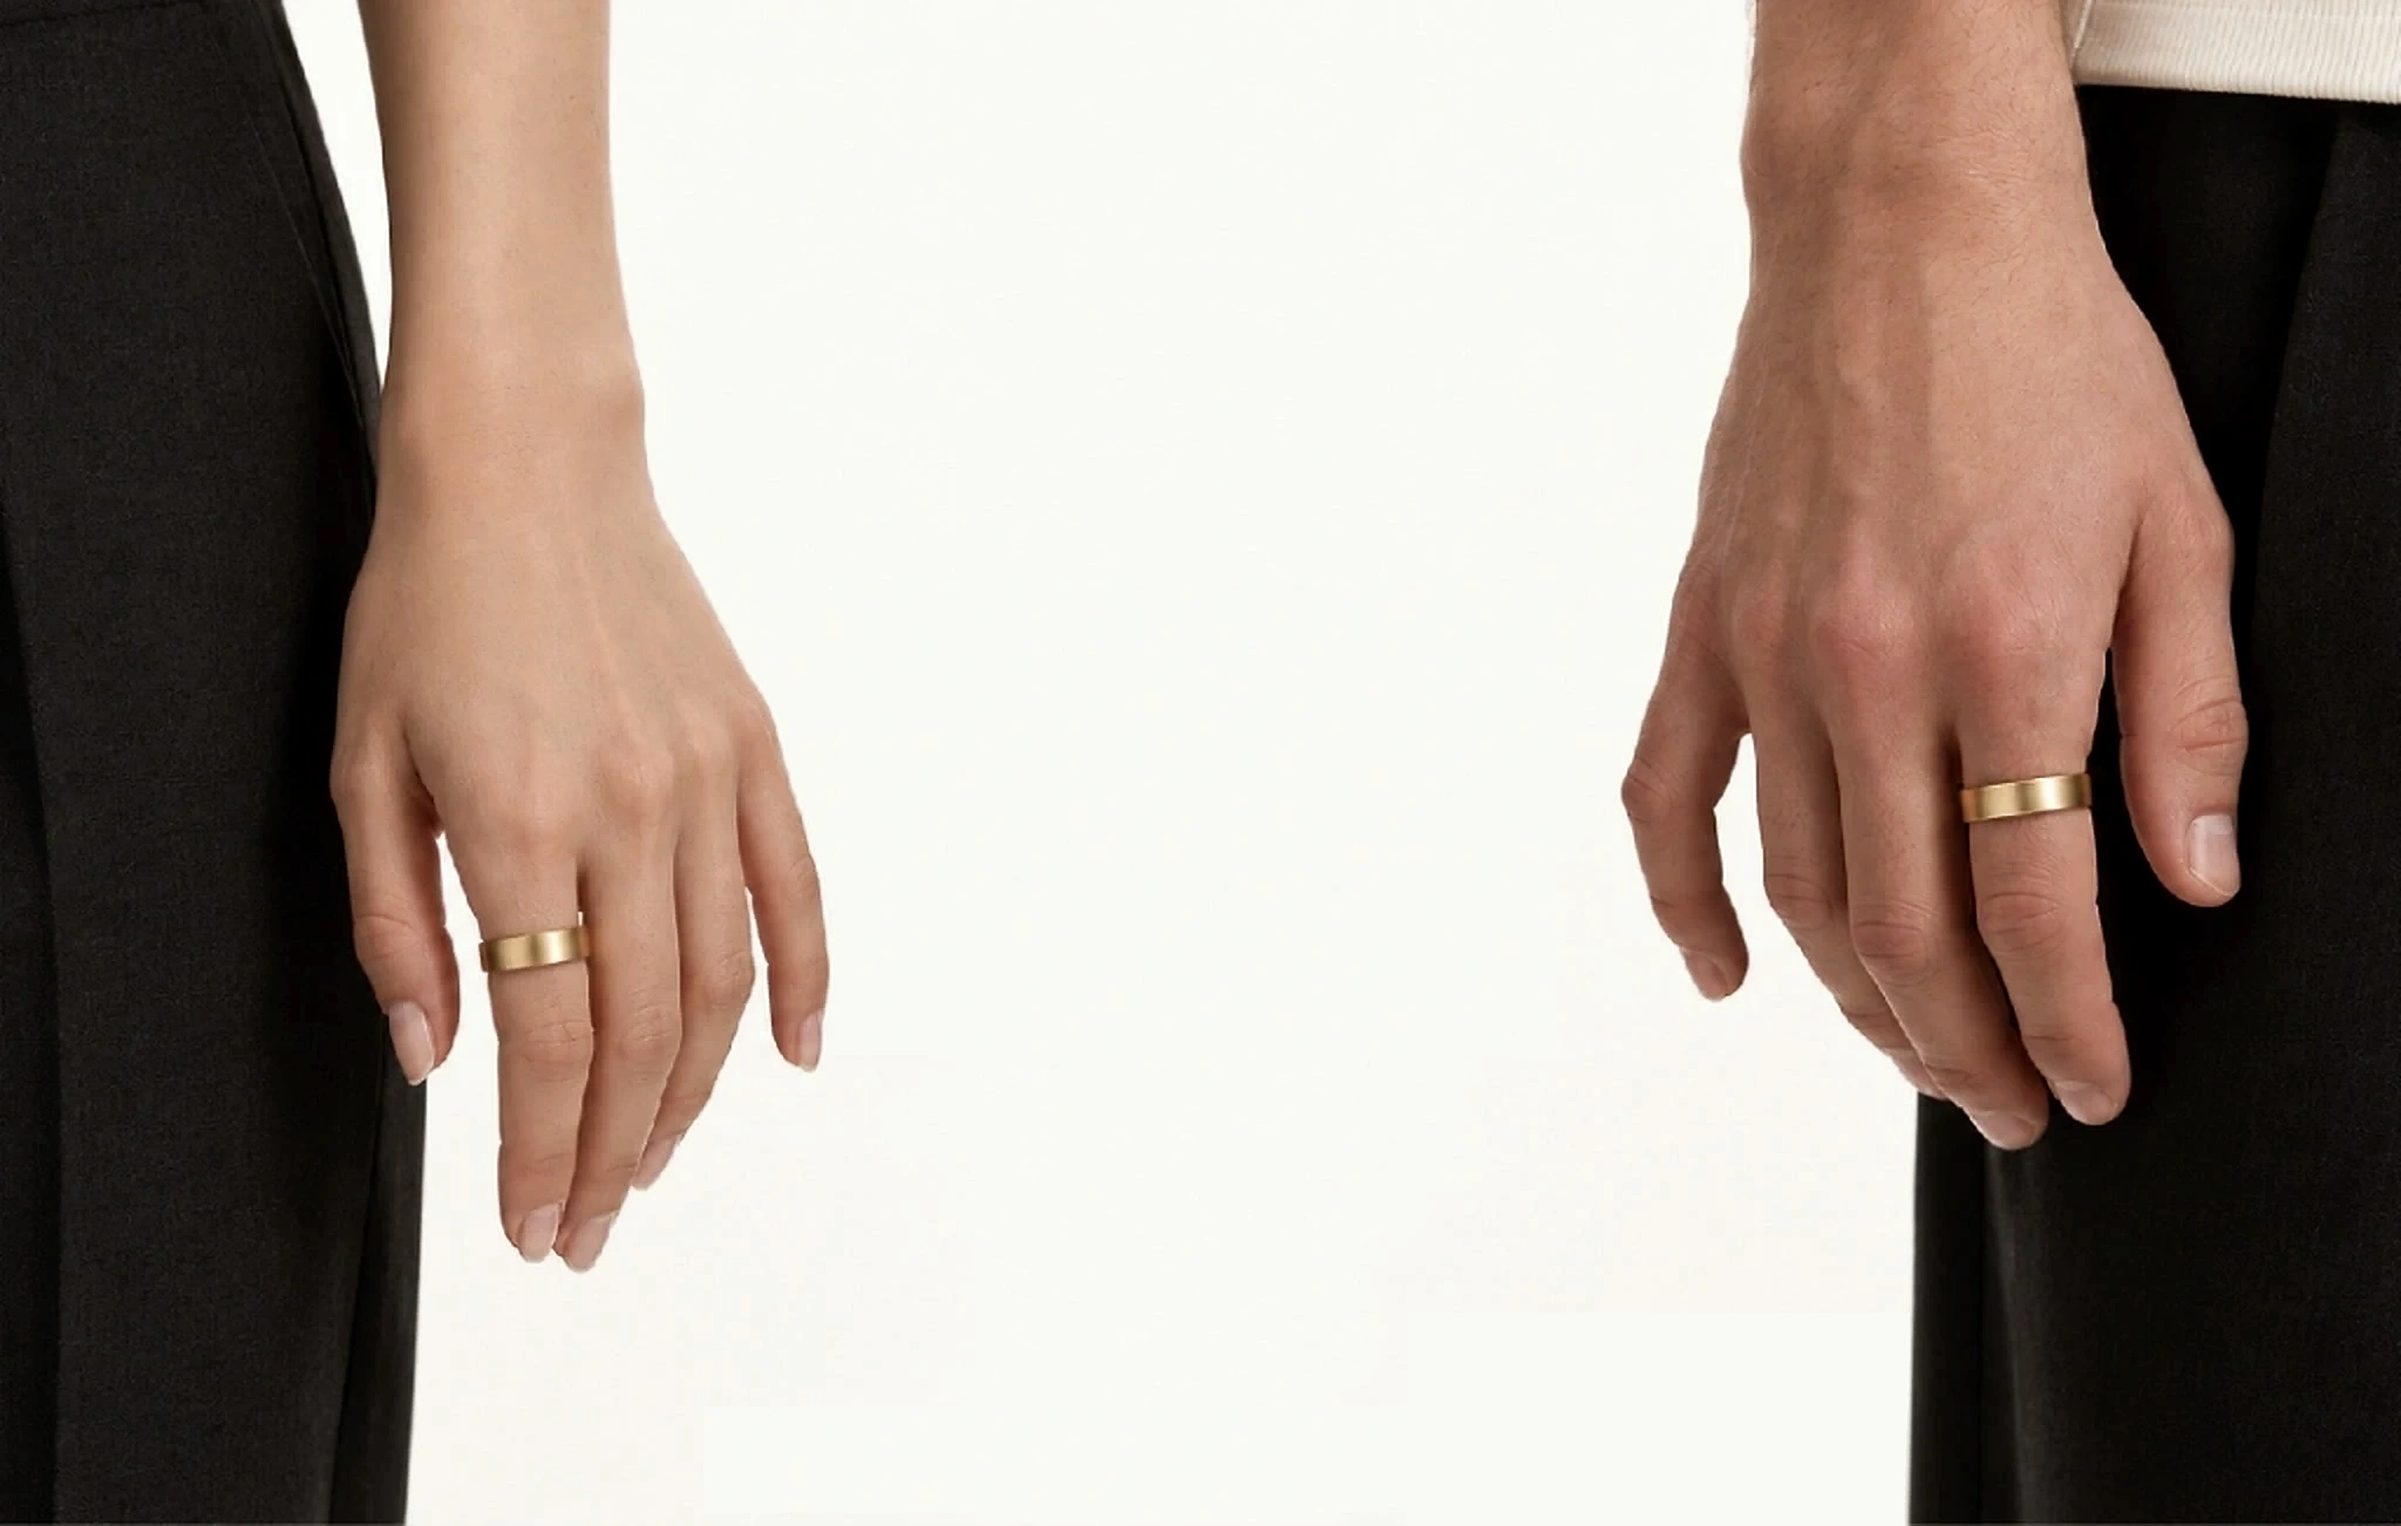
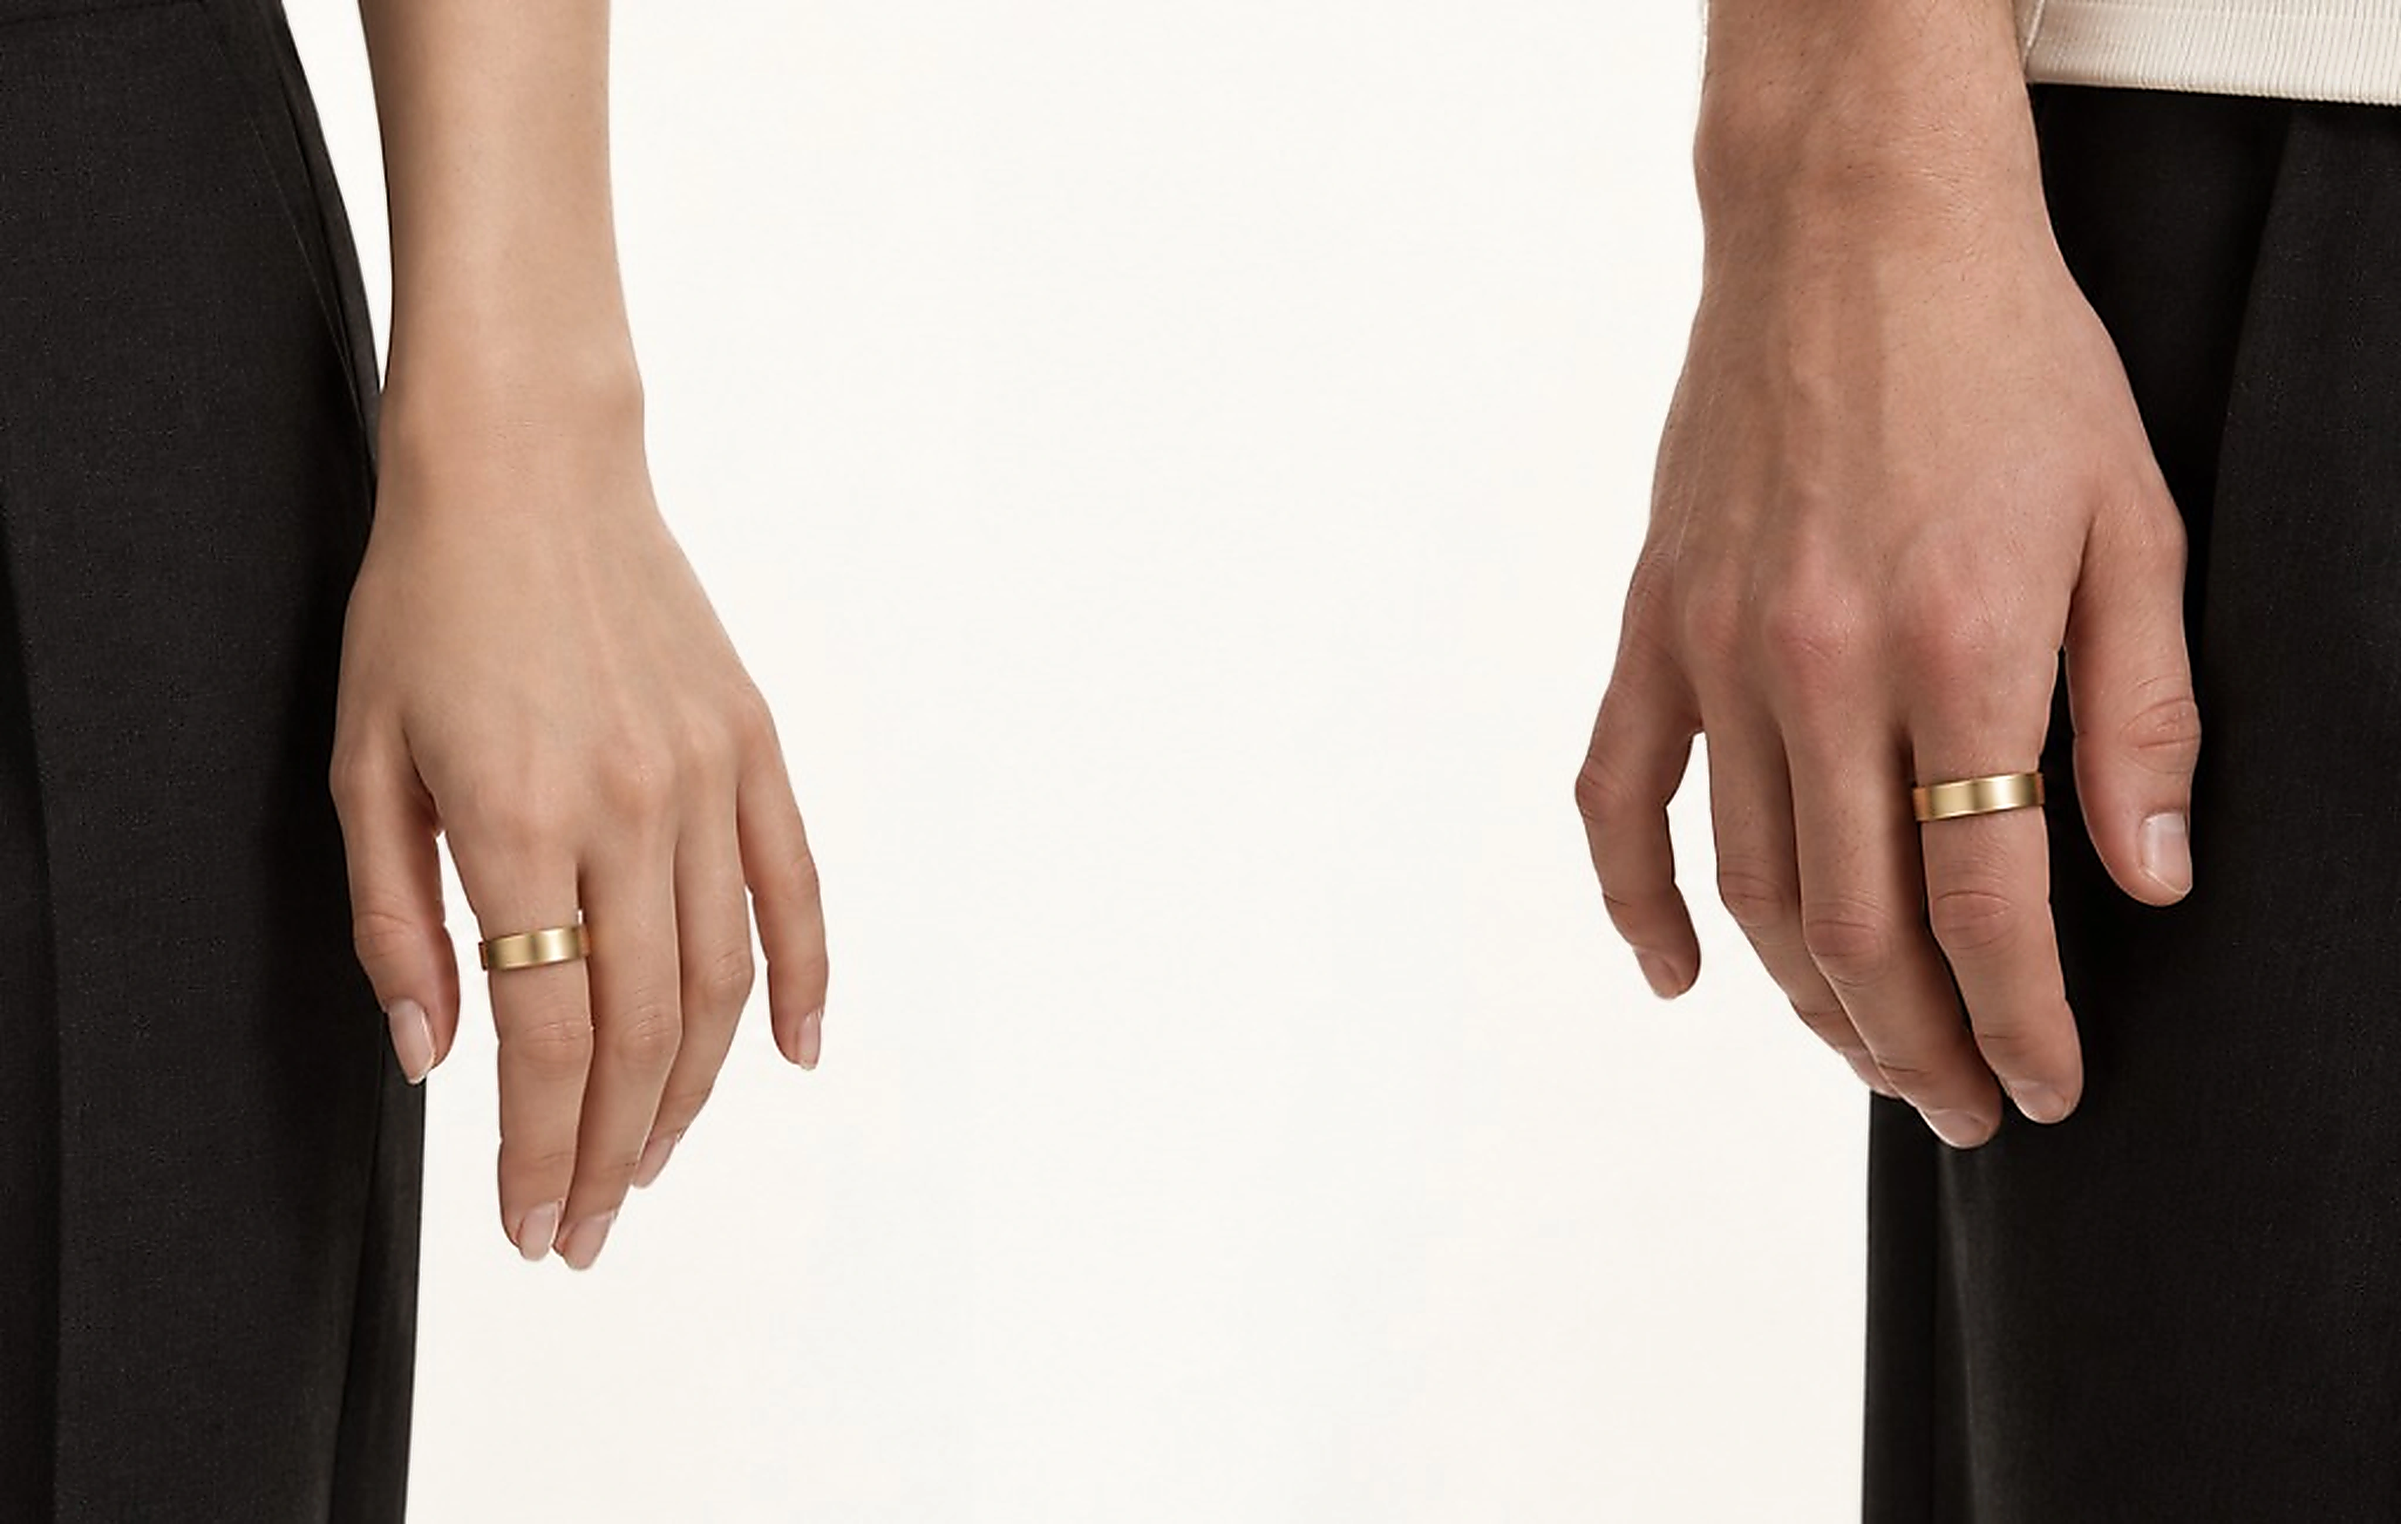
Update desktop hero background image with new couple hands photo in teaser10

Changed region(s): [[0.6562, 0.0, 1.0, 1.0], [0.0, 0.9969, 0.1875, 1.0]]

diff --git a/teaser10.html b/teaser10.html
@@ -3095,7 +3095,7 @@
                    alt="SAIスマートリングをつけたふたりの手"
                    class="hero-desktop-bg"
                    width="2048"
-                   height="1302"
+                   height="1300"
                    fetchpriority="high">
               <div class="hero-desktop-center">
                 <div class="hero-editorial-tag">SAI・ふたりのためのスマートリング</div>
@@ -3693,7 +3693,7 @@
                    alt="${t('SAI 스마트링을 착용한 두 사람의 손', 'SAIスマートリングをつけたふたりの手')}"
                    class="hero-desktop-bg"
                    width="2048"
-                   height="1302"
+                   height="1300"
                    fetchpriority="high">
               <div class="hero-desktop-center">
                 <div class="hero-editorial-tag">${t('SAI · 둘만을 위한 스마트링', 'SAI・ふたりのためのスマートリング')}</div>
